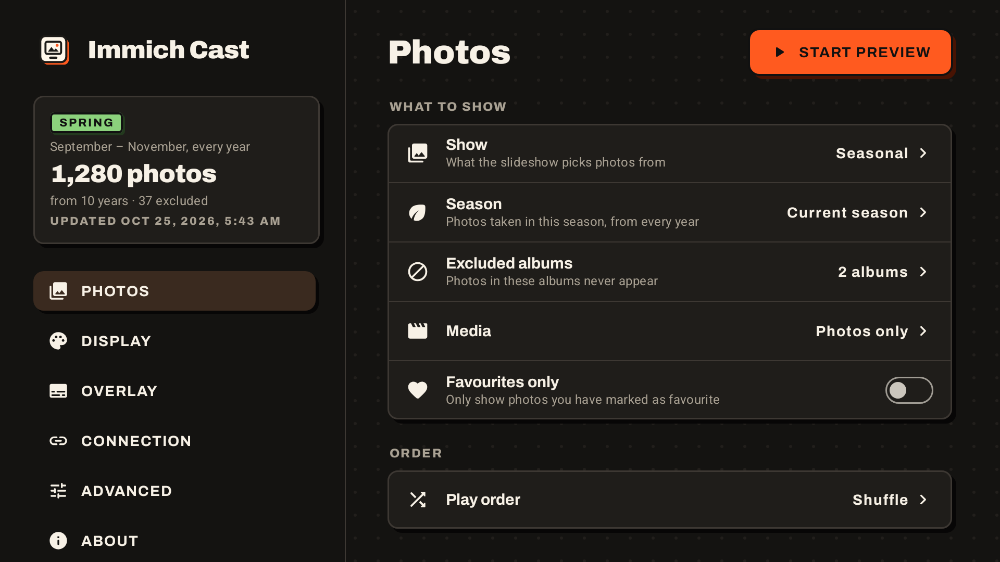
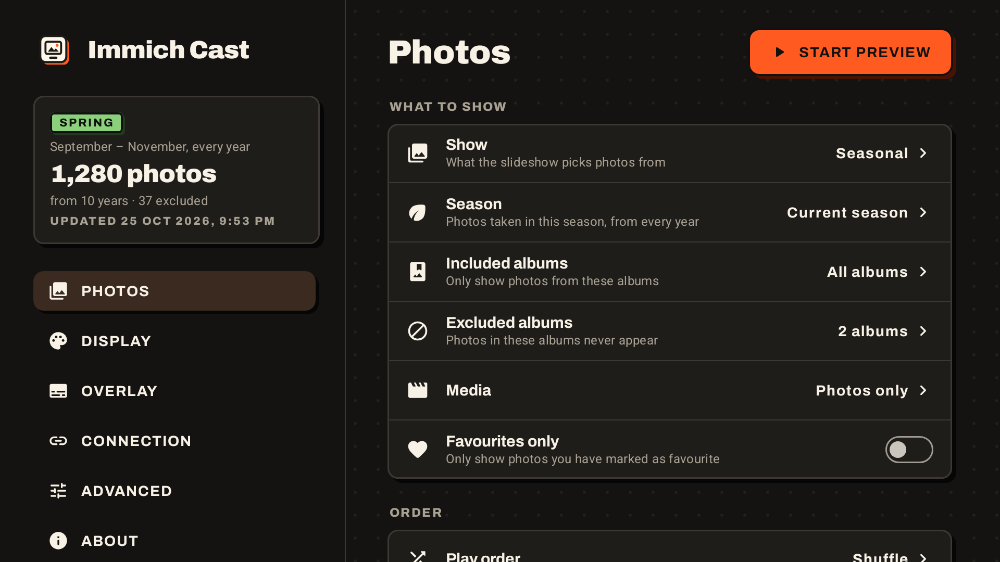
Refresh README and screenshots for the public repo
Add the Immich logo, document This month, included albums and burn-in
protection, and credit the bundled font and sample photo. The screensaver
screenshot now uses a real CC BY 2.0 photo of Hobart, and every screenshot
is re-rendered from the current UI. The setup screen mentions This month.

Claude-Session: https://claude.ai/code/session_019fmdwQPgRwDYptuGk6ruPS

diff --git a/app/src/test/java/com/roylet/immichcast/screenshots/ScreenshotTest.kt b/app/src/test/java/com/roylet/immichcast/screenshots/ScreenshotTest.kt
@@ -3,11 +3,7 @@ package com.roylet.immichcast.screenshots
 import android.app.Application
 import android.content.Context
 import android.graphics.Bitmap
-import android.graphics.Canvas
-import android.graphics.LinearGradient
-import android.graphics.Paint
-import android.graphics.Path
-import android.graphics.Shader
+import android.graphics.BitmapFactory
 import android.graphics.drawable.BitmapDrawable
 import android.widget.FrameLayout
 import androidx.compose.foundation.Image
@@ -193,7 +189,7 @@ class ScreenshotTest {
         root.addView(SlideLayer(context).apply { bind(photo, ImageFit.FIT_BLURRED); alpha = 1f })
         root.addView(OverlayView(context).apply {
             configure(SlideshowConfig(overlayItems = setOf(OverlayItem.CLOCK, OverlayItem.DATE, OverlayItem.LOCATION, OverlayItem.SEASON)))
-            setCaption(SlideCaption(date = "5 October 2022", location = "Hobart, Australia", season = "Spring 2022"), animate = false)
+            setCaption(SlideCaption(date = "26 April 2021", location = "Hobart, Australia", season = "Autumn 2021"), animate = false)
         })
         paparazzi.snapshot(root)
     }
@@ -269,22 +265,12 @@ class ScreenshotTest {
         }
     }
 
-    /** A 4:3 landscape "photo" so the blurred letterbox is visible on a 16:9 screen. */
-    private fun samplePhoto(): Bitmap {
-        val w = 1440; val h = 1080
-        val bmp = Bitmap.createBitmap(w, h, Bitmap.Config.ARGB_8888)
-        val c = Canvas(bmp)
-        val p = Paint(Paint.ANTI_ALIAS_FLAG)
-        p.shader = LinearGradient(0f, 0f, 0f, h * 0.7f, intArrayOf(0xFF3B6FB6.toInt(), 0xFFF4B98A.toInt()), null, Shader.TileMode.CLAMP)
-        c.drawRect(0f, 0f, w.toFloat(), h.toFloat(), p)
-        p.shader = null
-        p.color = 0xFFFFE1A8.toInt(); c.drawCircle(w * 0.72f, h * 0.38f, 70f, p)
-        p.color = 0xFF2F4858.toInt()
-        c.drawPath(Path().apply { moveTo(0f, h * 0.72f); lineTo(w * 0.3f, h * 0.45f); lineTo(w * 0.55f, h * 0.68f); lineTo(w * 0.75f, h * 0.52f); lineTo(w.toFloat(), h * 0.7f); lineTo(w.toFloat(), h.toFloat()); lineTo(0f, h.toFloat()); close() }, p)
-        p.color = 0xFF5E8C61.toInt()
-        c.drawPath(Path().apply { moveTo(0f, h * 0.85f); quadTo(w * 0.5f, h * 0.72f, w.toFloat(), h * 0.86f); lineTo(w.toFloat(), h.toFloat()); lineTo(0f, h.toFloat()); close() }, p)
-        return bmp
-    }
+    /**
+     * A real 4:3 photo, so the blurred letterbox is visible on a 16:9 screen.
+     * "Pink moon over Derwent, Hobart" by Thomas & Olivia Williams, CC BY 2.0 (credited in the README).
+     */
+    private fun samplePhoto(): Bitmap =
+        javaClass.getResourceAsStream("/sample-photo.jpg")!!.use { BitmapFactory.decodeStream(it) }
 
     private object FakeImmich : Dispatcher() {
         private val albums = listOf(

diff --git a/README.md b/README.md
@@ -2,9 +2,20 @@
 
 <p align="center"><img src="docs/app-banner.png" width="640" alt="Immich Cast"></p>
 
-A screensaver for **Chromecast with Google TV** (and other Android TV / Google TV devices) that shows your [Immich](https://immich.app) photos: **season by season**, **at random**, **recent** ones, or **on this day** in past years.
+<p align="center">
+  <a href="https://immich.app">
+    <picture>
+      <source media="(prefers-color-scheme: dark)" srcset="docs/immich/immich-logo-inline-dark.svg">
+      <img src="docs/immich/immich-logo-inline-light.svg" height="40" alt="Immich">
+    </picture>
+  </a>
+  <br>
+  <sub>A screensaver for your self-hosted <a href="https://immich.app">Immich</a> library</sub>
+</p>
 
-It shows photos from the current season across every year in your library: in spring you see every September–November from every year. You can also **exclude albums**. A photo in an excluded album never appears, even if it is also in another album.
+A screensaver for **Chromecast with Google TV** (and other Android TV / Google TV devices) that shows your [Immich](https://immich.app) photos: **season by season**, **this month** in past years, **at random**, **recent** ones, or **on this day**.
+
+It shows photos from the current season across every year in your library: in spring you see every September–November from every year. You can limit it to **chosen albums**, or **exclude albums**. A photo in an excluded album never appears, even if it is also in another album.
 
 <p align="center">
   <img src="docs/screenshots/screensaver-overlay.png" width="49%" alt="Screensaver with optional overlay">
@@ -17,8 +28,9 @@ It shows photos from the current season across every year in your library: in sp
 
 ## Features
 
-- **Four slideshow modes:**
+- **Five slideshow modes:**
   - **Seasonal:** photos from the current season across every year (details below).
+  - **This month:** the current calendar month in every year.
   - **Random:** your whole library, shuffled.
   - **Recent:** the last 30 days, 90 days, 6 months or 12 months.
   - **On this day:** the week around today's date in every past year. It changes daily.
@@ -31,8 +43,9 @@ It shows photos from the current season across every year in your library: in sp
   | Autumn | Mar–May | |
   | Winter | Jun–Aug | |
 
-  The season switches automatically, or you can pin one. If the current season, recent span or day has no photos yet, the screensaver falls back to your whole library and says so.
-- **Album exclusions.** Pick albums to hide (receipts, screenshots, work), and every photo in them is left out.
+  The season switches automatically, or you can pin one. If the current season, month, recent span or day has no photos yet, the screensaver falls back to your whole library and says so.
+- **Included albums.** Pick albums to limit the slideshow to (family, holidays, pets). Every mode then only uses photos from those albums.
+- **Excluded albums.** Pick albums to hide (receipts, screenshots, work), and every photo in them is left out. Exclusions win over inclusions.
 - **Everything configurable.** All of these are set with the remote:
   - time per photo
   - transition (crossfade, slow zoom, none)
@@ -44,9 +57,10 @@ It shows photos from the current season across every year in your library: in sp
   - play order
   - overlay contents and position
 - **No clutter by default.** The overlay is off. Turn on any of: clock, date taken, location, album name, description, season.
-- **Fast and resilient.** The photo list is cached on the device, so the screensaver starts at once and keeps working through Wi-Fi blips. The next photo is preloaded and decoded before it is shown.
-- **Private.** It talks only to your Immich server, nothing else.
-- **Warm, remote-friendly design.** The look is inspired by [ImmichUp](https://github.com/roylet/immichup), softened for a dark TV room: subtle outlines and offset shadows, Archivo type and an orange accent. The focused item gets a warm tint and an orange outline, so you can always see where you are from the sofa.
+- **Kind to your TV.** The overlay drifts slightly with each photo and moves to the opposite side every 10 minutes, so it doesn't burn into OLED and plasma screens.
+- **Fast and resilient.** The photo list is cached on the device, so the screensaver starts at once and keeps working through Wi-Fi blips. The next photo is preloaded and decoded before it is shown. Shuffle reshuffles every time the screensaver starts.
+- **Private.** It talks only to your Immich server, nothing else. There is no analytics or tracking.
+- **Warm, remote-friendly design.** Subtle outlines and offset shadows, Archivo type and an orange accent, softened for a dark TV room. The focused item gets a warm tint and an orange outline, so you can always see where you are from the sofa.
 
 ## Installation
 
@@ -64,7 +78,7 @@ The short version, if you already know adb:
 
 ```sh
 adb connect <tv-ip>:5555
-adb install immich-cast-1.0.0.apk
+adb install immich-cast-<version>.apk
 # open Immich Cast on the TV and connect it to your server, then:
 adb shell settings put secure screensaver_components com.roylet.immichcast/.dream.PhotoDreamService
 ```
@@ -73,9 +87,10 @@ adb shell settings put secure screensaver_components com.roylet.immichcast/.drea
 
 | Setting | Options | Default |
 |---|---|---|
-| Show | Seasonal, Random, Recent, On this day | Seasonal |
+| Show | Seasonal, This month, Random, Recent, On this day | Seasonal |
 | Season (Seasonal) | Current season, Spring, Summer, Autumn, Winter | Current season |
 | Time span (Recent) | Last 30 days, 90 days, 180 days, 12 months | Last 90 days |
+| Included albums | Any of your albums (owned or shared) | All albums |
 | Excluded albums | Any of your albums (owned or shared) | None |
 | Media | Photos only, Photos and videos | Photos only |
 | Favourites only | On / Off | Off |
@@ -90,16 +105,17 @@ adb shell settings put secure screensaver_components com.roylet.immichcast/.drea
 | Clock format | System, 12-hour, 24-hour | System |
 | Refresh library every | 6, 12, 24 hours | 12 hours |
 
-
 ## How it works
 
 The app builds its photo list with Immich's search API:
 
-1. It works out the date ranges for the chosen mode. For Seasonal and On this day, it reads your timeline so it only queries years that have photos. Random uses no date filter.
-2. It queries each range with `POST /api/search/metadata`.
+1. It works out the date ranges for the chosen mode. For Seasonal, This month and On this day, it reads your timeline so it only queries years that have photos. Random uses no date filter.
+2. It queries each range with `POST /api/search/metadata`. With included albums, it fetches each album once and applies the dates on the TV instead.
 3. It removes every asset found in your excluded albums.
 
-Archived, hidden, locked and trashed photos are never shown. The list is cached on the TV and rebuilt in the background on your refresh interval, when the season or day changes (for date-based modes), or when you change a setting that affects which photos are picked.
+Archived, hidden, locked and trashed photos are never shown. The list is cached on the TV and rebuilt in the background on your refresh interval, when the season, month or day changes (for date-based modes), or when you change a setting that affects which photos are picked. A rebuilt list is swapped in straight away, without restarting the screensaver.
+
+Tested with Immich 3.3.
 
 ## Development
 
@@ -121,7 +137,7 @@ The code lives in `app/src/main/java/com/roylet/immichcast/`:
 | `dream/` | The screensaver: `DreamService`, slideshow view, transitions, overlay |
 | `ui/` | Settings and setup wizard, built with Compose for TV |
 
-The app's TV banner is drawn in `art/banner.html` and rendered to PNGs by `art/render.js` (uses Playwright). The launcher icon is pure vector: `res/drawable/ic_launcher_*.xml`. The theme's colours and building blocks (outlined cards, offset shadows, focus states) live in `ui/theme/`. The Archivo font is bundled under the SIL Open Font License (`licenses/Archivo-OFL.txt`).
+The app's TV banner is drawn in `art/banner.html` and rendered to PNGs by `art/render.js` (uses Playwright). The launcher icon is pure vector: `res/drawable/ic_launcher_*.xml`. The theme's colours and building blocks (outlined cards, offset shadows, focus states) live in `ui/theme/`.
 
 ### Release signing
 
@@ -134,12 +150,22 @@ Release builds use the debug key unless one of these is provided:
   - `IMMICH_CAST_KEY_ALIAS`
   - `IMMICH_CAST_KEY_PASSWORD`
 
-To publish a release, bump `versionName`/`versionCode` in `app/build.gradle.kts`, then either push a matching tag (e.g. `v1.0.1`) or open **Actions → Build → Run workflow**, pick the branch and tick **release**. The workflow tags the commit, creates the GitHub release and attaches the APK.
+To publish a release, bump `versionName`/`versionCode` in `app/build.gradle.kts`, then either push a matching tag (e.g. `v1.0.2`) or open **Actions → Build → Run workflow**, pick the branch and tick **release**. The workflow tags the commit, creates the GitHub release and attaches the APK.
 
-## License
+Builds from a fork are signed with a different key, so they can't be installed over the official release without uninstalling it first.
 
-MIT, see [LICENSE](LICENSE). The bundled Archivo font is under the SIL Open Font License.
+## Contributing
+
+Bug reports and pull requests are welcome. Please run `./gradlew testDebugUnitTest lintDebug` before opening a pull request, and re-record screenshots if you change the UI.
+
+## License and credits
+
+Immich Cast is released under the [MIT License](LICENSE).
+
+- The bundled [Archivo](https://fonts.google.com/specimen/Archivo) font is under the SIL Open Font License (`licenses/Archivo-OFL.txt`).
+- The sample photo in the screensaver screenshot is ["Pink moon" over Derwent, Hobart](https://commons.wikimedia.org/wiki/File:%22Pink_moon%22_over_Derwent,_Hobart,_April_2021.jpg) by [Thomas & Olivia Williams](https://www.flickr.com/photos/thomasswilliams/51164720553/), licensed [CC BY 2.0](https://creativecommons.org/licenses/by/2.0/). It was resized and has the app's overlay drawn on top.
+- The Immich name and logo belong to the [Immich](https://github.com/immich-app/immich) project and are used only to show what this app works with.
 
 ---
 
-Immich Cast is an independent project and is not affiliated with Immich.
+Immich Cast is an independent project and is not affiliated with or endorsed by Immich or FUTO.
